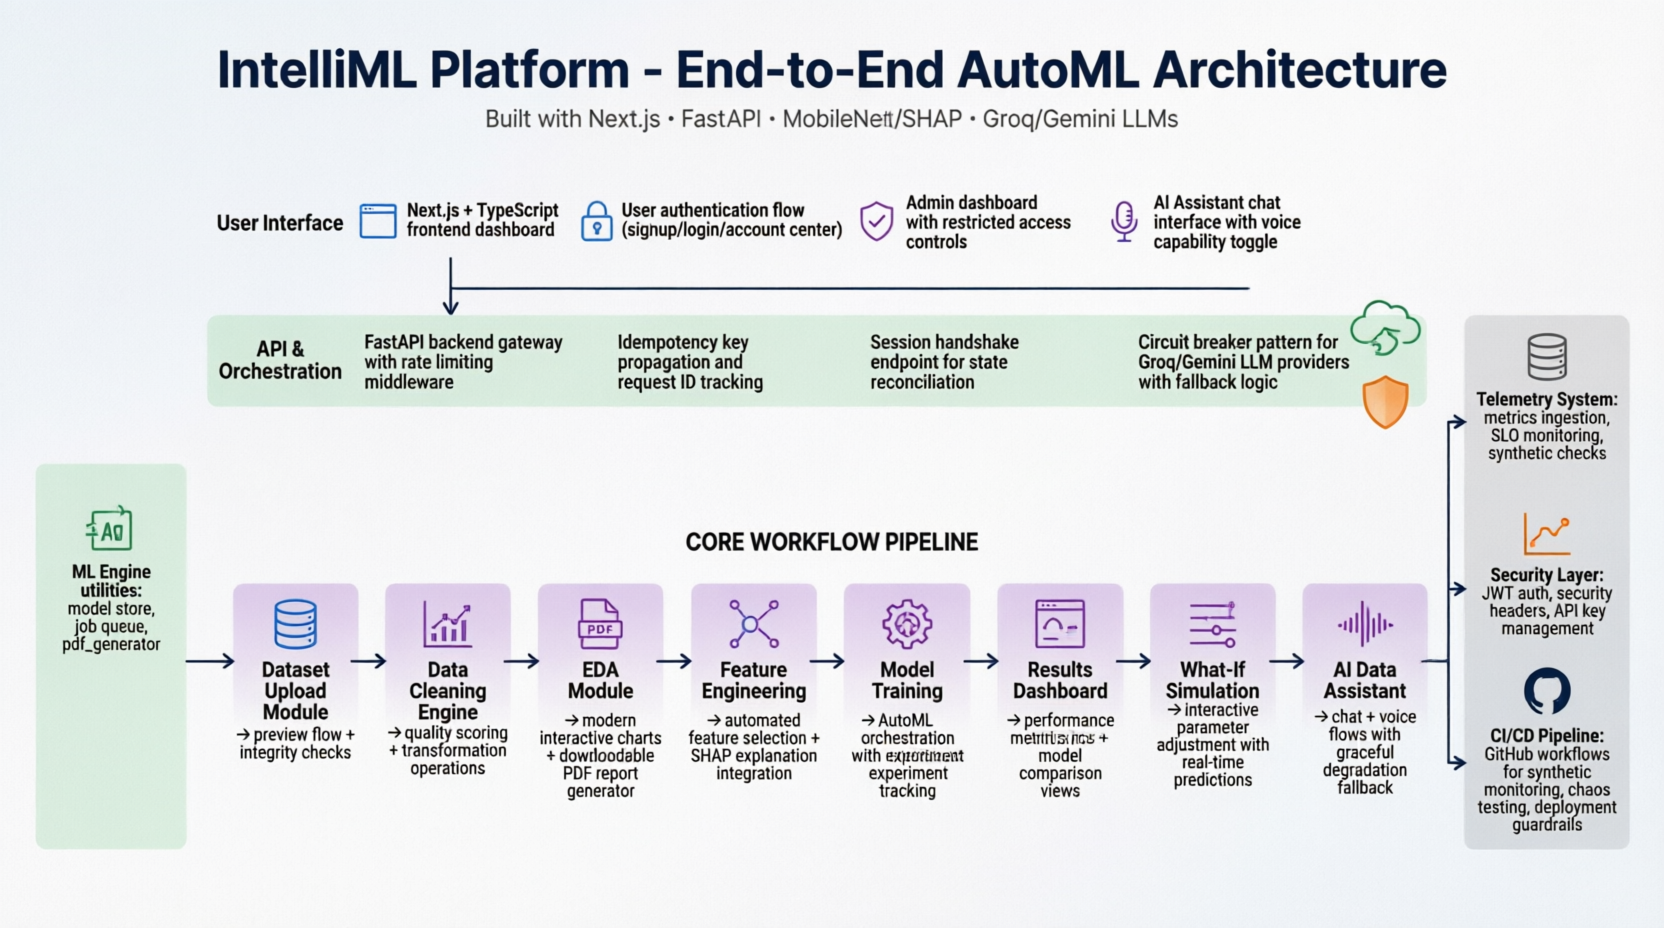
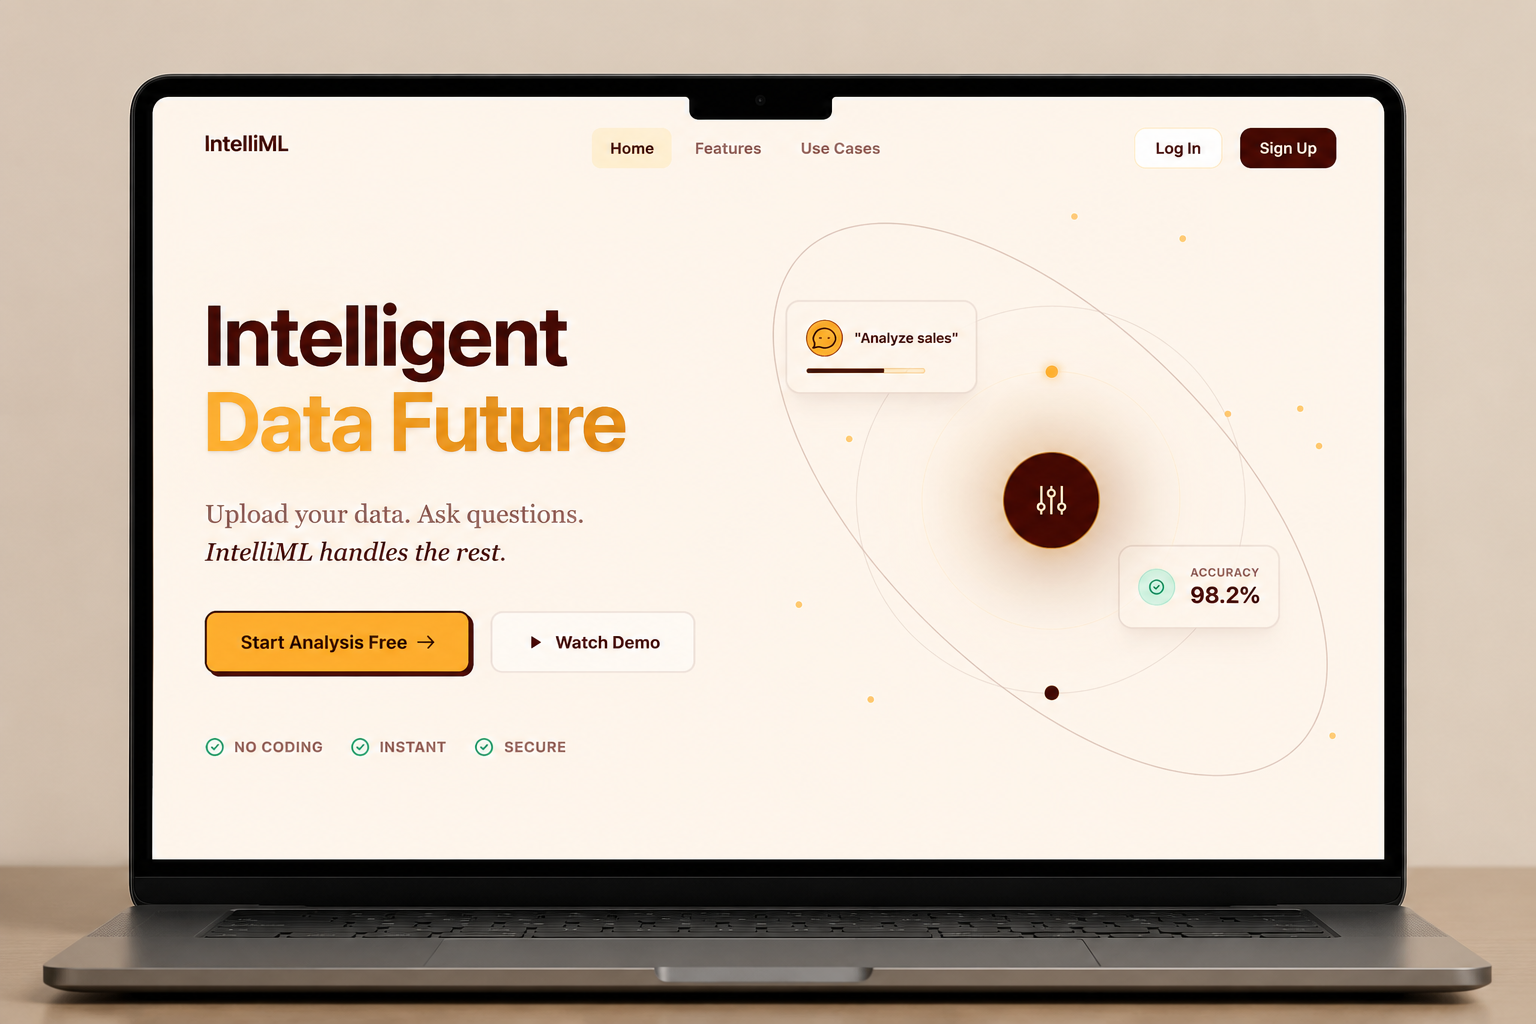
feat: update portfolio projects and layout

diff --git a/src/pages/ProjectDetailPage.tsx b/src/pages/ProjectDetailPage.tsx
@@ -56,31 +56,64 @@ const ProjectDetailPage = () => {
 
                 {project.image && (
                     <div className="mb-12 rounded-md-lg overflow-hidden border border-md-outline">
-                        <img src={project.image} alt={`${project.title} preview`} className="w-full h-60 md:h-[28rem] object-cover" loading="lazy" />
+                        <img src={project.image} alt={`${project.title} preview`} className="w-full aspect-video object-cover" loading="lazy" />
                     </div>
                 )}
 
-                <div className="grid md:grid-cols-[10rem_1fr] gap-6 md:gap-10 mb-12">
-                    <p className="mono text-md-on-surface-variant pt-1">Overview</p>
-                    <div className="prose prose-lg dark:prose-invert max-w-3xl prose-headings:font-display prose-a:text-accent hover:prose-a:text-accent/80">
-                        <ReactMarkdown remarkPlugins={[remarkGfm]}>
-                            {(project as any).markdownBody || project.description || "No project description is available yet."}
-                        </ReactMarkdown>
+                <div className="grid lg:grid-cols-[1fr_300px] gap-12 mb-12">
+                    <div className="space-y-12">
+                        <div>
+                            <p className="mono text-md-on-surface-variant pt-1 mb-4">Overview</p>
+                            <div className="prose prose-lg dark:prose-invert max-w-3xl prose-headings:font-display prose-a:text-accent hover:prose-a:text-accent/80">
+                                <ReactMarkdown remarkPlugins={[remarkGfm]}>
+                                    {(project as any).markdownBody || project.description || "No project description is available yet."}
+                                </ReactMarkdown>
+                            </div>
+                        </div>
                     </div>
+
+                    <aside className="space-y-8">
+                        <div className="bg-md-surface/50 border border-md-outline/10 rounded-2xl p-6">
+                            <h3 className="font-display text-lg font-medium text-md-on-background mb-4">At a Glance</h3>
+                            <dl className="space-y-4 text-[15px]">
+                                {project.role && (
+                                    <div>
+                                        <dt className="text-md-on-surface-variant mb-1">Role</dt>
+                                        <dd className="font-medium text-md-on-background">{project.role}</dd>
+                                    </div>
+                                )}
+                                {project.timeline && (
+                                    <div>
+                                        <dt className="text-md-on-surface-variant mb-1">Timeline</dt>
+                                        <dd className="font-medium text-md-on-background">{project.timeline}</dd>
+                                    </div>
+                                )}
+                                {project.demo && project.demo !== "#" && (
+                                    <div>
+                                        <dt className="text-md-on-surface-variant mb-1">Live Demo</dt>
+                                        <dd className="font-medium text-md-on-background">
+                                            <a href={project.demo} target="_blank" rel="noopener noreferrer" className="hover:text-accent transition-colors underline underline-offset-4">
+                                                View Project
+                                            </a>
+                                        </dd>
+                                    </div>
+                                )}
+                                {project.github && (
+                                    <div>
+                                        <dt className="text-md-on-surface-variant mb-1">Source</dt>
+                                        <dd className="font-medium text-md-on-background">
+                                            <a href={project.github} target="_blank" rel="noopener noreferrer" className="hover:text-accent transition-colors underline underline-offset-4">
+                                                View Code
+                                            </a>
+                                        </dd>
+                                    </div>
+                                )}
+                            </dl>
+                        </div>
+                    </aside>
                 </div>
 
-                <section className="flex flex-wrap gap-3">
-                    {project.demo && project.demo !== "#" && (
-                        <a href={project.demo} target="_blank" rel="noopener noreferrer" className="btn-primary inline-flex items-center gap-2 px-6 py-3 text-sm min-h-[46px]" aria-label={`Open live demo for ${project.title}`}>
-                            Live Demo <ArrowUpRight size={16} />
-                        </a>
-                    )}
-                    {project.github && (
-                        <a href={project.github} target="_blank" rel="noopener noreferrer" className="btn-ghost inline-flex items-center gap-2 px-6 py-3 text-sm min-h-[46px]" aria-label={`Open GitHub repository for ${project.title}`}>
-                            Source Code <ArrowUpRight size={16} />
-                        </a>
-                    )}
-                </section>
+
             </article>
         </PageWrapper>
     );

diff --git a/src/components/Projects.tsx b/src/components/Projects.tsx
@@ -42,7 +42,7 @@ const Projects = () => {
             )}
 
             {/* List */}
-            <div className={`flex flex-col gap-10 ${isLoading ? "hidden" : ""}`}>
+            <div className={`grid grid-cols-1 md:grid-cols-2 gap-10 ${isLoading ? "hidden" : ""}`}>
                 {PROJECTS.map((project, i) => (
                     <motion.article
                         key={project.id}
@@ -50,21 +50,26 @@ const Projects = () => {
                         animate={{ opacity: 1, y: 0 }}
                         transition={{ delay: 0.1 + i * 0.08 }}
                     >
-                        <TiltCard className="flex flex-col border border-md-outline/20 rounded-[24px] bg-md-surface overflow-hidden shadow-sm h-full w-full">
-                        <Link to={`/projects/${project.id}-${slugify(project.title)}`} className="block p-3 pb-0 group">
+                        <div className="flex flex-col h-full w-full group">
+                        <Link to={`/projects/${project.id}-${slugify(project.title)}`} className="block pb-5">
                             {project.image && (
-                                <div className="overflow-hidden rounded-[14px] border border-md-outline/10 bg-md-surface-variant/20">
+                                <div className="relative overflow-hidden rounded-[14px] border border-md-outline/10 bg-md-surface-variant/20">
                                     <img
                                         src={project.image}
                                         alt={`${project.title} preview`}
-                                        className="w-full h-64 sm:h-80 object-cover transition-transform duration-500 group-hover:scale-[1.03]"
+                                        className="w-full aspect-video object-cover transition-transform duration-500 group-hover:scale-[1.03]"
                                         loading="lazy"
                                     />
+                                    <div className="absolute inset-0 bg-black/40 flex items-center justify-center opacity-0 group-hover:opacity-100 transition-opacity duration-300 z-10 pointer-events-none">
+                                        <span className="bg-white/10 backdrop-blur-md text-white px-5 py-2.5 rounded-full font-medium text-[15px] border border-white/20 transform translate-y-4 group-hover:translate-y-0 transition-all duration-300">
+                                            View Project &rarr;
+                                        </span>
+                                    </div>
                                 </div>
                             )}
                         </Link>
                         
-                        <div className="p-5 flex flex-col flex-1">
+                        <div className="flex flex-col flex-1">
                             <div className="flex justify-between items-baseline mb-2">
                                 <h3 className="text-xl font-bold text-md-on-background">
                                     {project.title}
@@ -83,25 +88,25 @@ const Projects = () => {
                             </div>
                         </div>
 
-                        <div className="mt-auto border-t border-dashed border-md-outline/30 flex divide-x divide-dashed divide-md-outline/30 bg-md-background/50">
+                        <div className="mt-6 flex items-center gap-6">
                             <a 
                                 href={project.demo || '#'} 
                                 target="_blank" 
                                 rel="noopener noreferrer" 
-                                className="flex-1 py-3 text-center text-[15px] text-md-on-surface-variant hover:bg-md-surface-variant/30 hover:text-md-on-background transition-colors"
+                                className="text-[15px] font-medium text-md-on-background hover:text-accent transition-colors underline underline-offset-4 decoration-md-outline/50 hover:decoration-accent"
                             >
-                                Live link
+                                Live Project
                             </a>
                             <a 
                                 href={project.github || '#'} 
                                 target="_blank" 
                                 rel="noopener noreferrer" 
-                                className="flex-1 py-3 flex items-center justify-center gap-2 text-[15px] text-md-on-surface-variant hover:bg-md-surface-variant/30 hover:text-md-on-background transition-colors"
+                                className="flex items-center gap-2 text-[15px] font-medium text-md-on-surface-variant hover:text-md-on-background transition-colors"
                             >
-                                GitHub <Github size={16} />
+                                <Github size={16} /> Source Code
                             </a>
                         </div>
-                        </TiltCard>
+                    </div>
                     </motion.article>
                 ))}
             </div>

diff --git a/src/components/Footer.tsx b/src/components/Footer.tsx
@@ -7,12 +7,12 @@ const Footer = () => {
     ];
 
     return (
-        <footer className="w-full mt-20 pb-8">
+        <footer className="w-full mt-20 pt-10 pb-6 border-t border-md-outline/10 bg-gradient-to-b from-transparent to-md-surface/30 relative">
             <div className="mx-auto max-w-2xl px-4">
-                <div className="flex flex-col md:flex-row gap-12 md:gap-24 mb-16">
+                <div className="flex flex-col md:flex-row gap-8 md:gap-16 mb-10">
                     {/* NAVIGATE Section */}
                     <div className="flex-1">
-                        <h3 className="text-[11px] font-medium tracking-widest text-md-on-surface-variant mb-6 uppercase">
+                        <h3 className="text-[11px] font-medium tracking-widest text-md-on-surface-variant mb-4 uppercase">
                             Navigate
                         </h3>
                         <div className="flex flex-wrap gap-x-5 gap-y-3.5 sm:gap-x-7 sm:gap-y-4 max-w-[380px]">
@@ -30,7 +30,7 @@ const Footer = () => {
 
                     {/* CONNECT Section */}
                     <div>
-                        <h3 className="text-[11px] font-medium tracking-widest text-md-on-surface-variant mb-6 uppercase">
+                        <h3 className="text-[11px] font-medium tracking-widest text-md-on-surface-variant mb-4 uppercase">
                             Connect
                         </h3>
                         <div className="grid grid-cols-4 gap-2.5 sm:gap-3">
@@ -55,7 +55,7 @@ const Footer = () => {
                     </div>
                 </div>
 
-                <div className="pt-8 border-t border-md-outline/15 text-sm sm:text-[15px] text-md-on-surface-variant/80">
+                <div className="pt-6 border-t border-md-outline/15 text-sm sm:text-[15px] text-md-on-surface-variant/80">
                     <p>&copy; {new Date().getFullYear()} {CONTENT.name}. All rights reserved.</p>
                 </div>
             </div>

diff --git a/src/constants/index.ts b/src/constants/index.ts
@@ -45,6 +45,7 @@ export const SKILLS = [
 ];
 
 const normalizeProject = (project, index) => ({
+    ...project,
     id: Number.isFinite(project?.id) ? project.id : index + 1,
     title: typeof project?.title === "string" && project.title.trim() ? project.title : "Untitled Project",
     description: typeof project?.description === "string" ? project.description : "",
@@ -52,6 +53,8 @@ const normalizeProject = (project, index) => ({
     image: typeof project?.image === "string" ? project.image : "",
     demo: typeof project?.demo === "string" && project.demo.trim() ? project.demo : "#",
     github: typeof project?.github === "string" ? project.github : "",
+    role: project?.role || "Lead Developer",
+    timeline: project?.timeline || "2025 - Present"
 });
 
 export const PROJECTS = parsedProjects

diff --git a/src/pages/ProjectsPage.tsx b/src/pages/ProjectsPage.tsx
@@ -7,7 +7,7 @@ const ProjectsPage = () => {
         <PageWrapper>
             <Seo
                 title="Projects — Anil Paneru"
-                description="Selected AI and machine learning projects by Anil Paneru, including the IntelliML platform and a real-time violence detection system."
+                description="Selected AI and machine learning projects by Anil Paneru, including the IntelliML platform, SafeVision, and Intrusion Detection System."
                 path="/projects"
             />
             <Projects />

diff --git a/src/content/projects/2-violence-detection.md b/src/content/projects/2-violence-detection.md
@@ -1,6 +1,6 @@
 ---
 id: 2
-title: "Violence Detection System"
+title: "SafeVision"
 description: "A real-time deep learning pipeline achieving 97% accuracy in detecting violent activities in video streams with automated alerts."
 tags:
   - Python
@@ -9,7 +9,7 @@ tags:
   - LSTM
   - OpenCV
 image: "/images/violence%20detection.png"
-demo: "https://github.com/Theani7/Violence-Detection-System-using-CNN-LSTM-Models"
+demo: "https://violence-detection-system-using-cnn.vercel.app/"
 github: "https://github.com/Theani7/Violence-Detection-System-using-CNN-LSTM-Models"
 ---
 

diff --git a/src/content/projects/3-intrusion-detection.md b/src/content/projects/3-intrusion-detection.md
@@ -1,0 +1,16 @@
+---
+id: 3
+title: "Intrusion Detection System"
+description: "AI-powered Intrusion Detection System built with XGBoost, FastAPI, React, Scapy, and Telegram notifications."
+tags:
+  - Python
+  - XGBoost
+  - FastAPI
+  - React
+  - Scapy
+image: "/images/ids.png"
+demo: "https://github.com/Theani7/Intrusion_Detection_System"
+github: "https://github.com/Theani7/Intrusion_Detection_System"
+---
+
+AI-powered Intrusion Detection System built with XGBoost, FastAPI, React, Scapy, and Telegram notifications.

diff --git a/src/content/projects/1-intelliml.md b/src/content/projects/1-intelliml.md
@@ -9,7 +9,7 @@ tags:
   - Scikit-learn
   - Tailwind CSS
 image: "/images/intelliML.png"
-demo: "https://github.com/NeonNinjaX/IntelliML-Platform"
+demo: "https://intelli-ml-platform-phi.vercel.app/"
 github: "https://github.com/NeonNinjaX/IntelliML-Platform"
 ---
 
